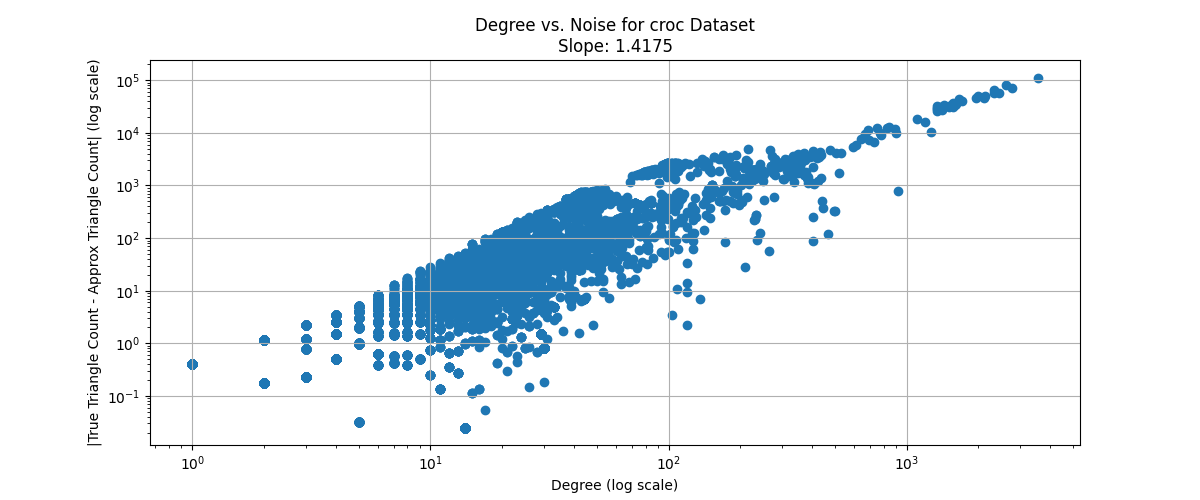
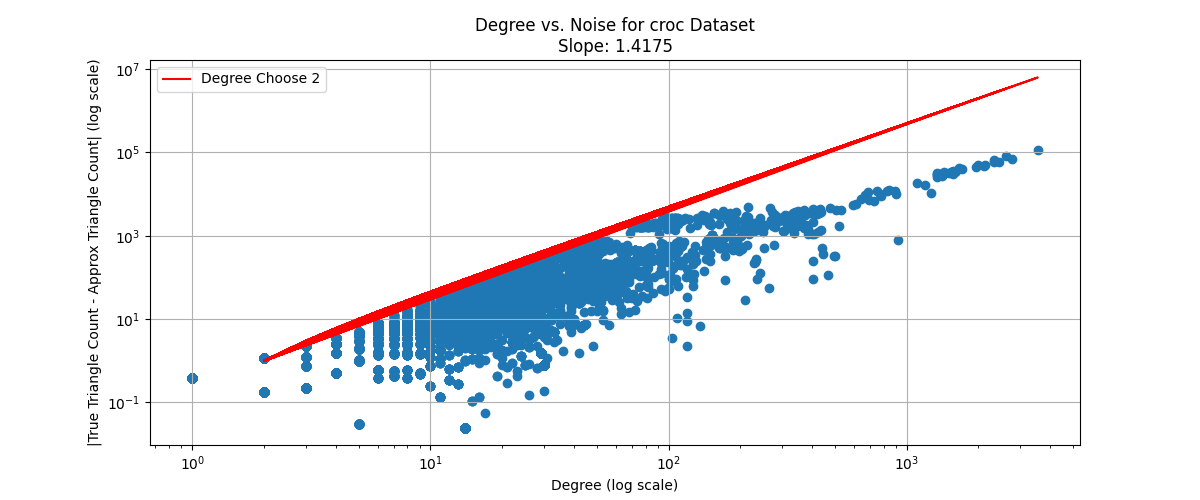
Add degree choose 2 to degree vs noise plots

diff --git a/thesis.py b/thesis.py
@@ -579,13 +579,17 @@ def generate_noise_plots(A, dataset_name):
   degree_plot_slope, _ = np.polyfit(log_degree, log_diff, 1)
   triangles_plot_slope, _ = np.polyfit(true_triangles, diff_array, 1)
 
+  degree_array_greater_than_1 = degree_array[degree_array > 1]
+
   plt.figure(figsize=(12, 5))
   plt.scatter(degree_array, diff_array, marker='o')
+  plt.plot(degree_array_greater_than_1, degree_array_greater_than_1 * (degree_array_greater_than_1 - 1) / 2, color='red', label="Degree Choose 2")
   plt.xscale('log')
   plt.yscale('log')
   plt.xlabel('Degree (log scale)')
   plt.ylabel('|True Triangle Count - Approx Triangle Count| (log scale)')
   plt.title(f'Degree vs. Noise for {dataset_name} Dataset\nSlope: {degree_plot_slope:.4f}')
+  plt.legend()
   plt.grid(True)
   plt.savefig(f'plots/degree_vs_noise/{dataset_name}_degree_vs_noise.png')
   plt.close()
